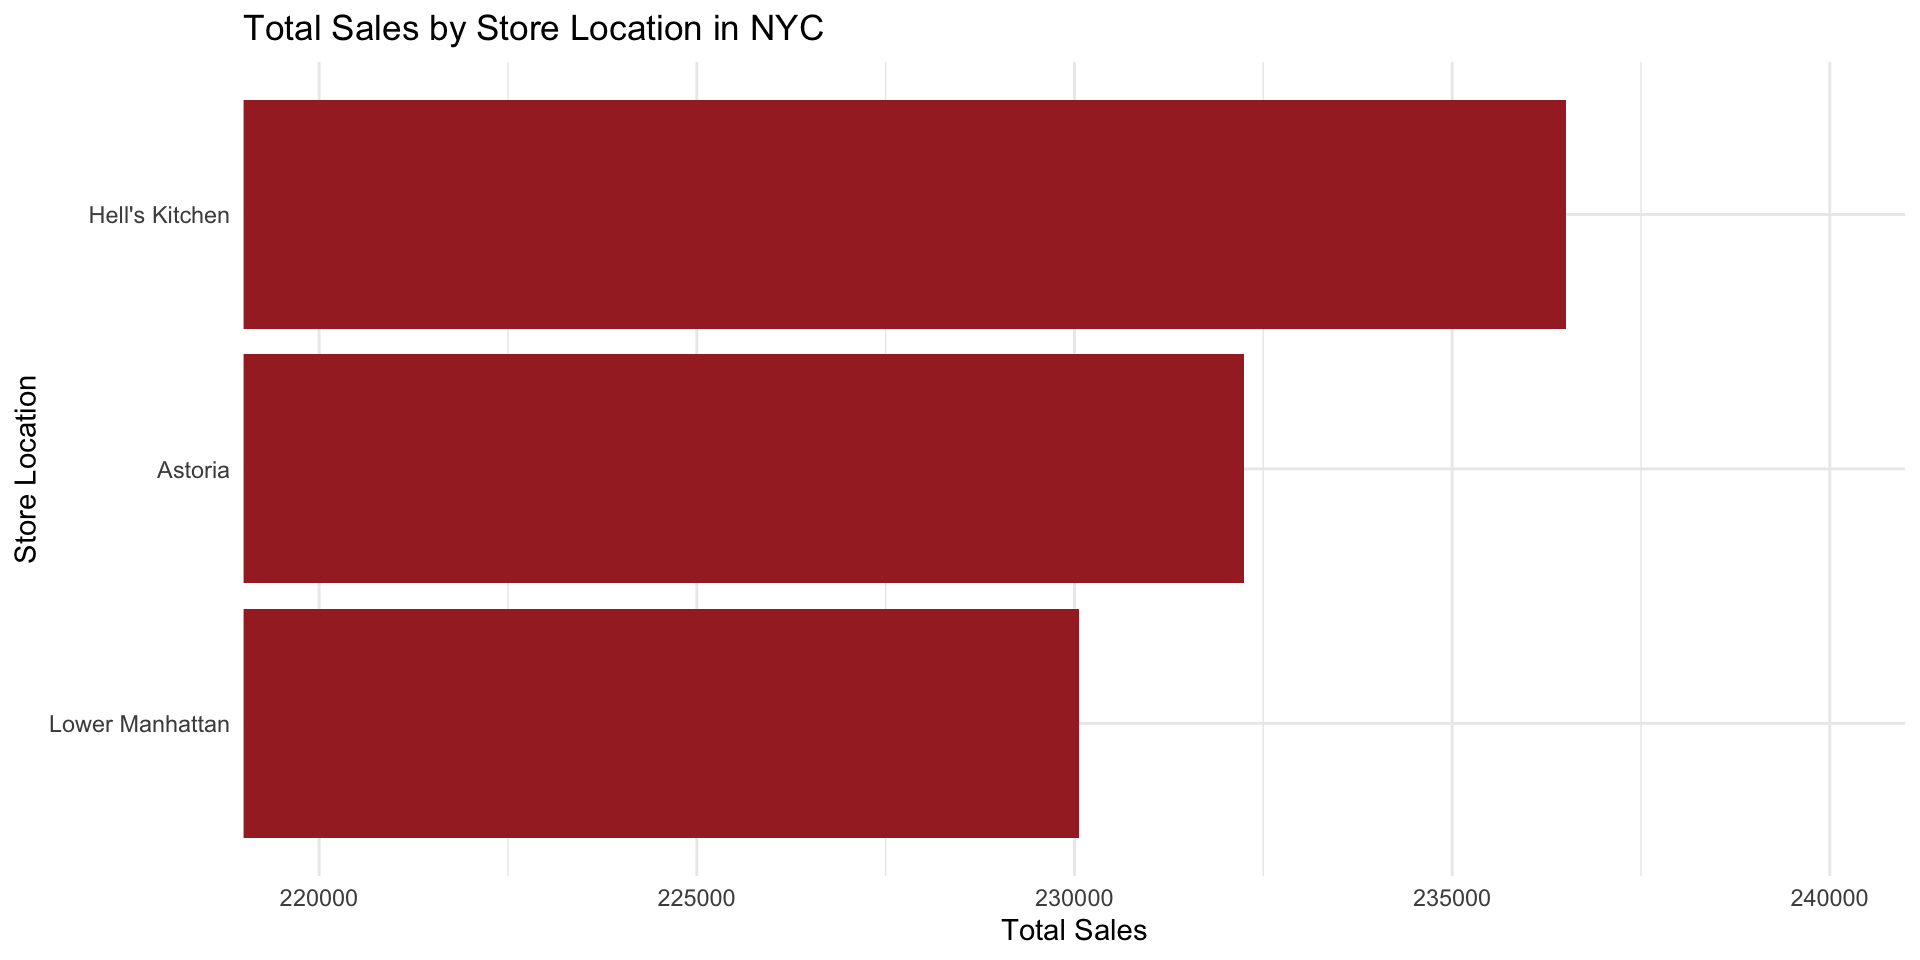
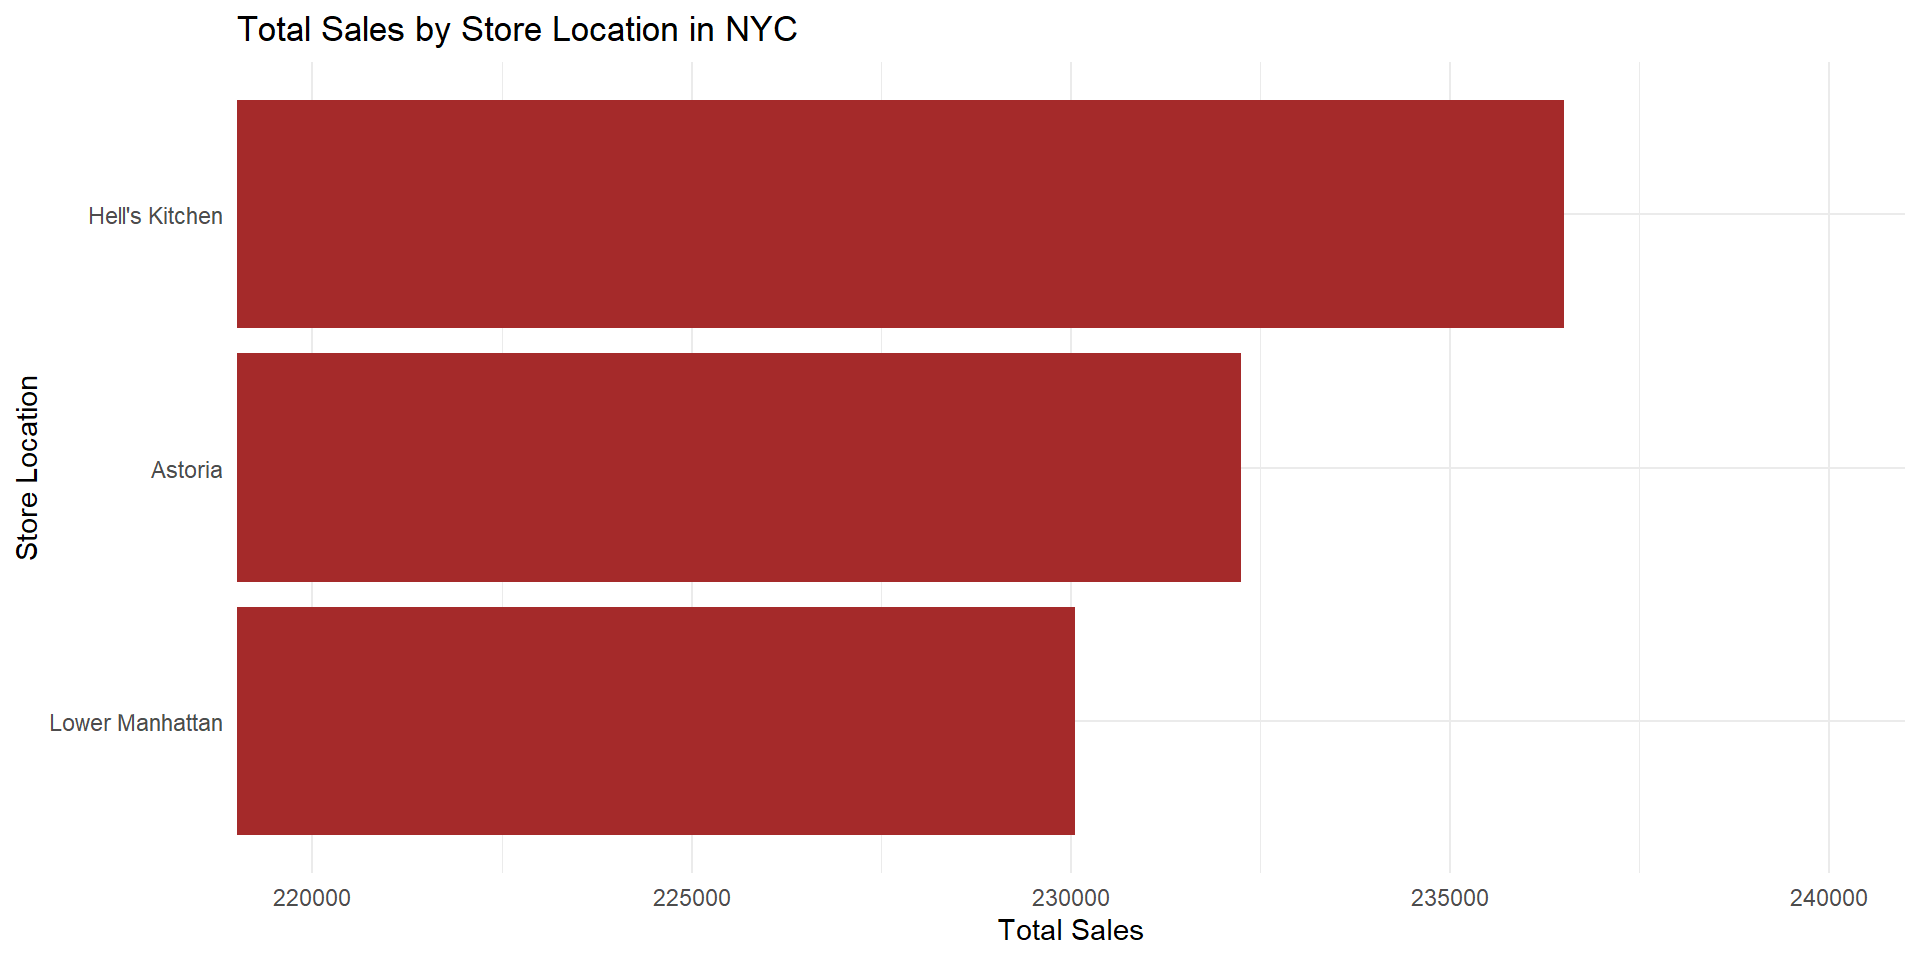
Edit Store Location Analysis table - Adding more columns

diff --git a/Slides.html b/Slides.html
@@ -6,8 +6,8 @@
 <script src="Slides_files/libs/quarto-html/tippy.umd.min.js"></script>
 <link href="Slides_files/libs/quarto-html/tippy.css" rel="stylesheet">
 <link href="Slides_files/libs/quarto-html/light-border.css" rel="stylesheet">
-<link href="Slides_files/libs/quarto-html/quarto-syntax-highlighting-7f8f88aac4f3542376d5c11b86a4c14d.css" rel="stylesheet" id="quarto-text-highlighting-styles"><meta charset="utf-8">
-  <meta name="generator" content="quarto-1.9.37">
+<link href="Slides_files/libs/quarto-html/quarto-syntax-highlighting-7c69b197886ae2a34062761d21e44731.css" rel="stylesheet" id="quarto-text-highlighting-styles"><meta charset="utf-8">
+  <meta name="generator" content="quarto-1.9.31">
 
   <meta name="author" content="Caryn Kesuma">
   <meta name="author" content="Shruti Pillai">
@@ -128,7 +128,9 @@
     }
   </style>
   <script src="Slides_files/libs/kePrint-0.0.1/kePrint.js"></script>
+
   <link href="Slides_files/libs/lightable-0.0.1/lightable.css" rel="stylesheet">
+
 </head>
 <body class="quarto-light">
   <div class="reveal">
@@ -173,109 +175,70 @@ Thunchanok Udomittipong
 <section id="dataset-introduction" class="slide level2 small-slide">
 <h2>Dataset Introduction</h2>
 
-<img data-src="Slides_files/figure-revealjs/data-dict.png" class="r-stretch"></section>
+<img data-src="Slides_files/figure-revealjs/data-dict.png" width="615" class="r-stretch"></section>
 <section id="data-cleaning-process" class="slide level2">
 <h2>Data cleaning process</h2>
 <ul>
 <li>Check for missing values.</li>
+<li>Check for duplicated rows.</li>
 <li>Convert date column from character string to date format.</li>
 </ul>
 </section>
 <section id="store-location-analysis" class="slide level2">
 <h2>Store Location Analysis</h2>
+<div style="font-size: 0.7em">
 <div class="cell">
 <div class="cell-output-display">
-<table class="caption-top">
-<thead>
-<tr class="header">
-<th style="text-align: left;">Store Location</th>
-<th style="text-align: right;">Quantity Sold</th>
-<th style="text-align: right;">Average Price</th>
-<th style="text-align: right;">Total Sales</th>
-</tr>
-</thead>
-<tbody>
-<tr class="odd">
-<td style="text-align: left;">Hell’s Kitchen</td>
-<td style="text-align: right;">71737</td>
-<td style="text-align: right;">3.30</td>
-<td style="text-align: right;">236511.2</td>
-</tr>
-<tr class="even">
-<td style="text-align: left;">Astoria</td>
-<td style="text-align: right;">70991</td>
-<td style="text-align: right;">3.27</td>
-<td style="text-align: right;">232243.9</td>
-</tr>
-<tr class="odd">
-<td style="text-align: left;">Lower Manhattan</td>
-<td style="text-align: right;">71742</td>
-<td style="text-align: right;">3.21</td>
-<td style="text-align: right;">230057.2</td>
-</tr>
-</tbody>
-</table>
-</div>
-</div>
-</section>
-<section id="product-category-analysis" class="slide level2">
-<h2>Product Category Analysis</h2>
-
-<img data-src="Slides_files/figure-revealjs/unnamed-chunk-6-1.png" width="960" class="r-stretch"></section>
-<section id="overall-store-performance" class="slide level2">
-<h2>Overall Store Performance</h2>
-<div class="cell">
-<div id="tbl-location-summary" class="cell quarto-float quarto-figure quarto-figure-center">
-<figure class="quarto-float quarto-float-tbl">
-<figcaption class="quarto-float-caption-top quarto-float-caption quarto-float-tbl" id="tbl-location-summary-caption-0ceaefa1-69ba-4598-a22c-09a6ac19f8ca">
-Table&nbsp;1: Summary statistics by store location in New York City.
-</figcaption>
-<div aria-describedby="tbl-location-summary-caption-0ceaefa1-69ba-4598-a22c-09a6ac19f8ca">
-<div class="cell-output-display">
-<table class="table cell caption-top" style="font-size: 30px; margin-left: auto; margin-right: auto;">
+<table class="table caption-top" style="width: auto !important; margin-left: auto; margin-right: auto;">
 <thead>
 <tr class="header">
 <th style="text-align: left;" data-quarto-table-cell-role="th">Store Location</th>
+<th style="text-align: right;" data-quarto-table-cell-role="th">Quantity Sold</th>
+<th style="text-align: right;" data-quarto-table-cell-role="th">Average Price</th>
 <th style="text-align: right;" data-quarto-table-cell-role="th">Total Sales</th>
 <th style="text-align: right;" data-quarto-table-cell-role="th">Total Transactions</th>
-<th style="text-align: right;" data-quarto-table-cell-role="th">Total Quantity Sold</th>
-<th style="text-align: right;" data-quarto-table-cell-role="th">Average Transaction Value</th>
+<th style="text-align: right;" data-quarto-table-cell-role="th">Average Transaction Values</th>
 <th style="text-align: right;" data-quarto-table-cell-role="th">Average Daily Sales</th>
 </tr>
 </thead>
 <tbody>
 <tr class="odd">
 <td style="text-align: left;">Hell's Kitchen</td>
+<td style="text-align: right;">71737</td>
+<td style="text-align: right;">3.30</td>
 <td style="text-align: right;">236511.2</td>
 <td style="text-align: right;">50735</td>
-<td style="text-align: right;">71737</td>
-<td style="text-align: right;">4.661696</td>
-<td style="text-align: right;">1306.692</td>
+<td style="text-align: right;">4.66</td>
+<td style="text-align: right;">1306.69</td>
 </tr>
 <tr class="even">
 <td style="text-align: left;">Astoria</td>
+<td style="text-align: right;">70991</td>
+<td style="text-align: right;">3.27</td>
 <td style="text-align: right;">232243.9</td>
 <td style="text-align: right;">50599</td>
-<td style="text-align: right;">70991</td>
-<td style="text-align: right;">4.589891</td>
-<td style="text-align: right;">1283.116</td>
+<td style="text-align: right;">4.59</td>
+<td style="text-align: right;">1283.12</td>
 </tr>
 <tr class="odd">
 <td style="text-align: left;">Lower Manhattan</td>
+<td style="text-align: right;">71742</td>
+<td style="text-align: right;">3.21</td>
 <td style="text-align: right;">230057.2</td>
 <td style="text-align: right;">47782</td>
-<td style="text-align: right;">71742</td>
-<td style="text-align: right;">4.814726</td>
-<td style="text-align: right;">1271.035</td>
+<td style="text-align: right;">4.81</td>
+<td style="text-align: right;">1271.03</td>
 </tr>
 </tbody>
 </table>
 </div>
 </div>
-</figure>
-</div>
 </div>
 </section>
+<section id="product-category-analysis" class="slide level2">
+<h2>Product Category Analysis</h2>
+
+<img data-src="Slides_files/figure-revealjs/unnamed-chunk-7-1.png" width="960" class="r-stretch"></section>
 <section id="total-sales-by-store-location-in-nyc" class="slide level2">
 <h2>Total Sales by Store Location in NYC</h2>
 
@@ -676,42 +639,80 @@ Figure&nbsp;2
       });
     </script>
     
+
     <script>
+
       // htmlwidgets need to know to resize themselves when slides are shown/hidden.
+
       // Fire the "slideenter" event (handled by htmlwidgets.js) when the current
+
       // slide changes (different for each slide format).
+
       (function () {
+
         // dispatch for htmlwidgets
+
         function fireSlideEnter() {
+
           const event = window.document.createEvent("Event");
+
           event.initEvent("slideenter", true, true);
+
           window.document.dispatchEvent(event);
+
         }
+
+    
 
         function fireSlideChanged(previousSlide, currentSlide) {
+
           fireSlideEnter();
 
+    
+
           // dispatch for shiny
+
           if (window.jQuery) {
+
             if (previousSlide) {
+
               window.jQuery(previousSlide).trigger("hidden");
+
             }
+
             if (currentSlide) {
+
               window.jQuery(currentSlide).trigger("shown");
+
             }
+
           }
+
         }
+
+    
 
         // hookup for slidy
+
         if (window.w3c_slidy) {
+
           window.w3c_slidy.add_observer(function (slide_num) {
+
             // slide_num starts at position 1
+
             fireSlideChanged(null, w3c_slidy.slides[slide_num - 1]);
+
           });
+
         }
 
+    
+
       })();
+
     </script>
+
+    
 
     <script id="quarto-html-after-body" type="application/javascript">
       window.document.addEventListener("DOMContentLoaded", function (event) {